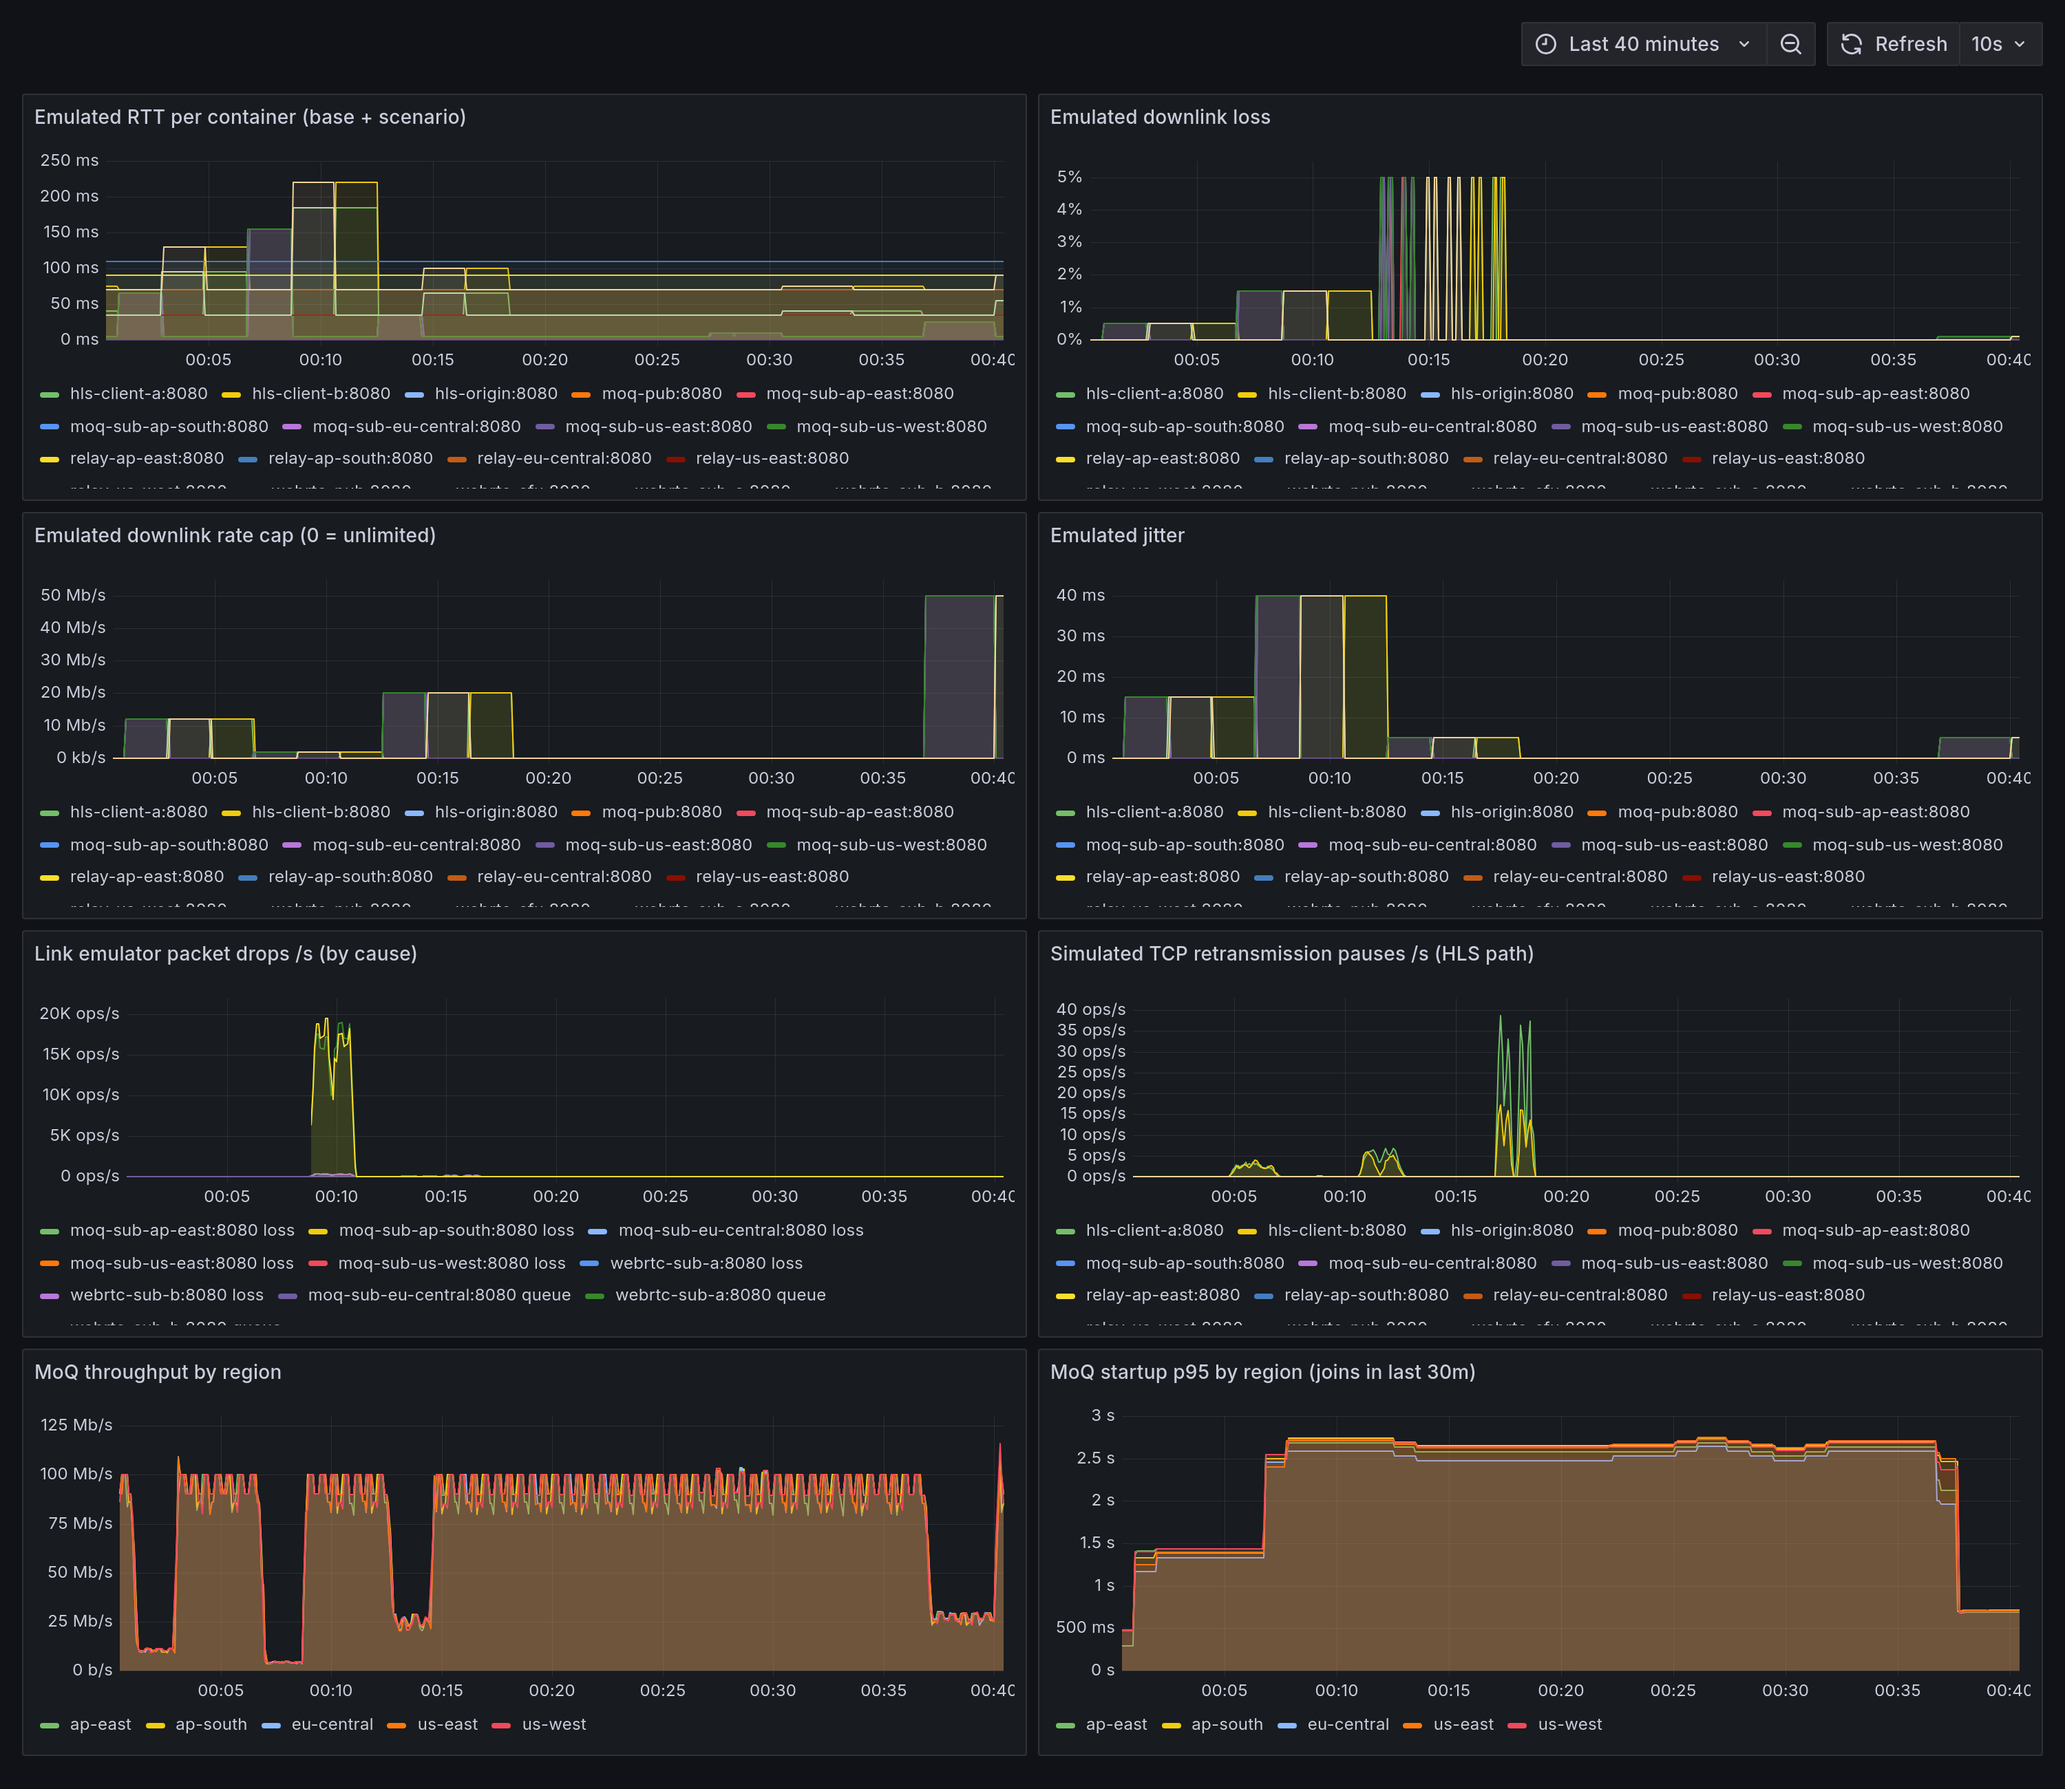
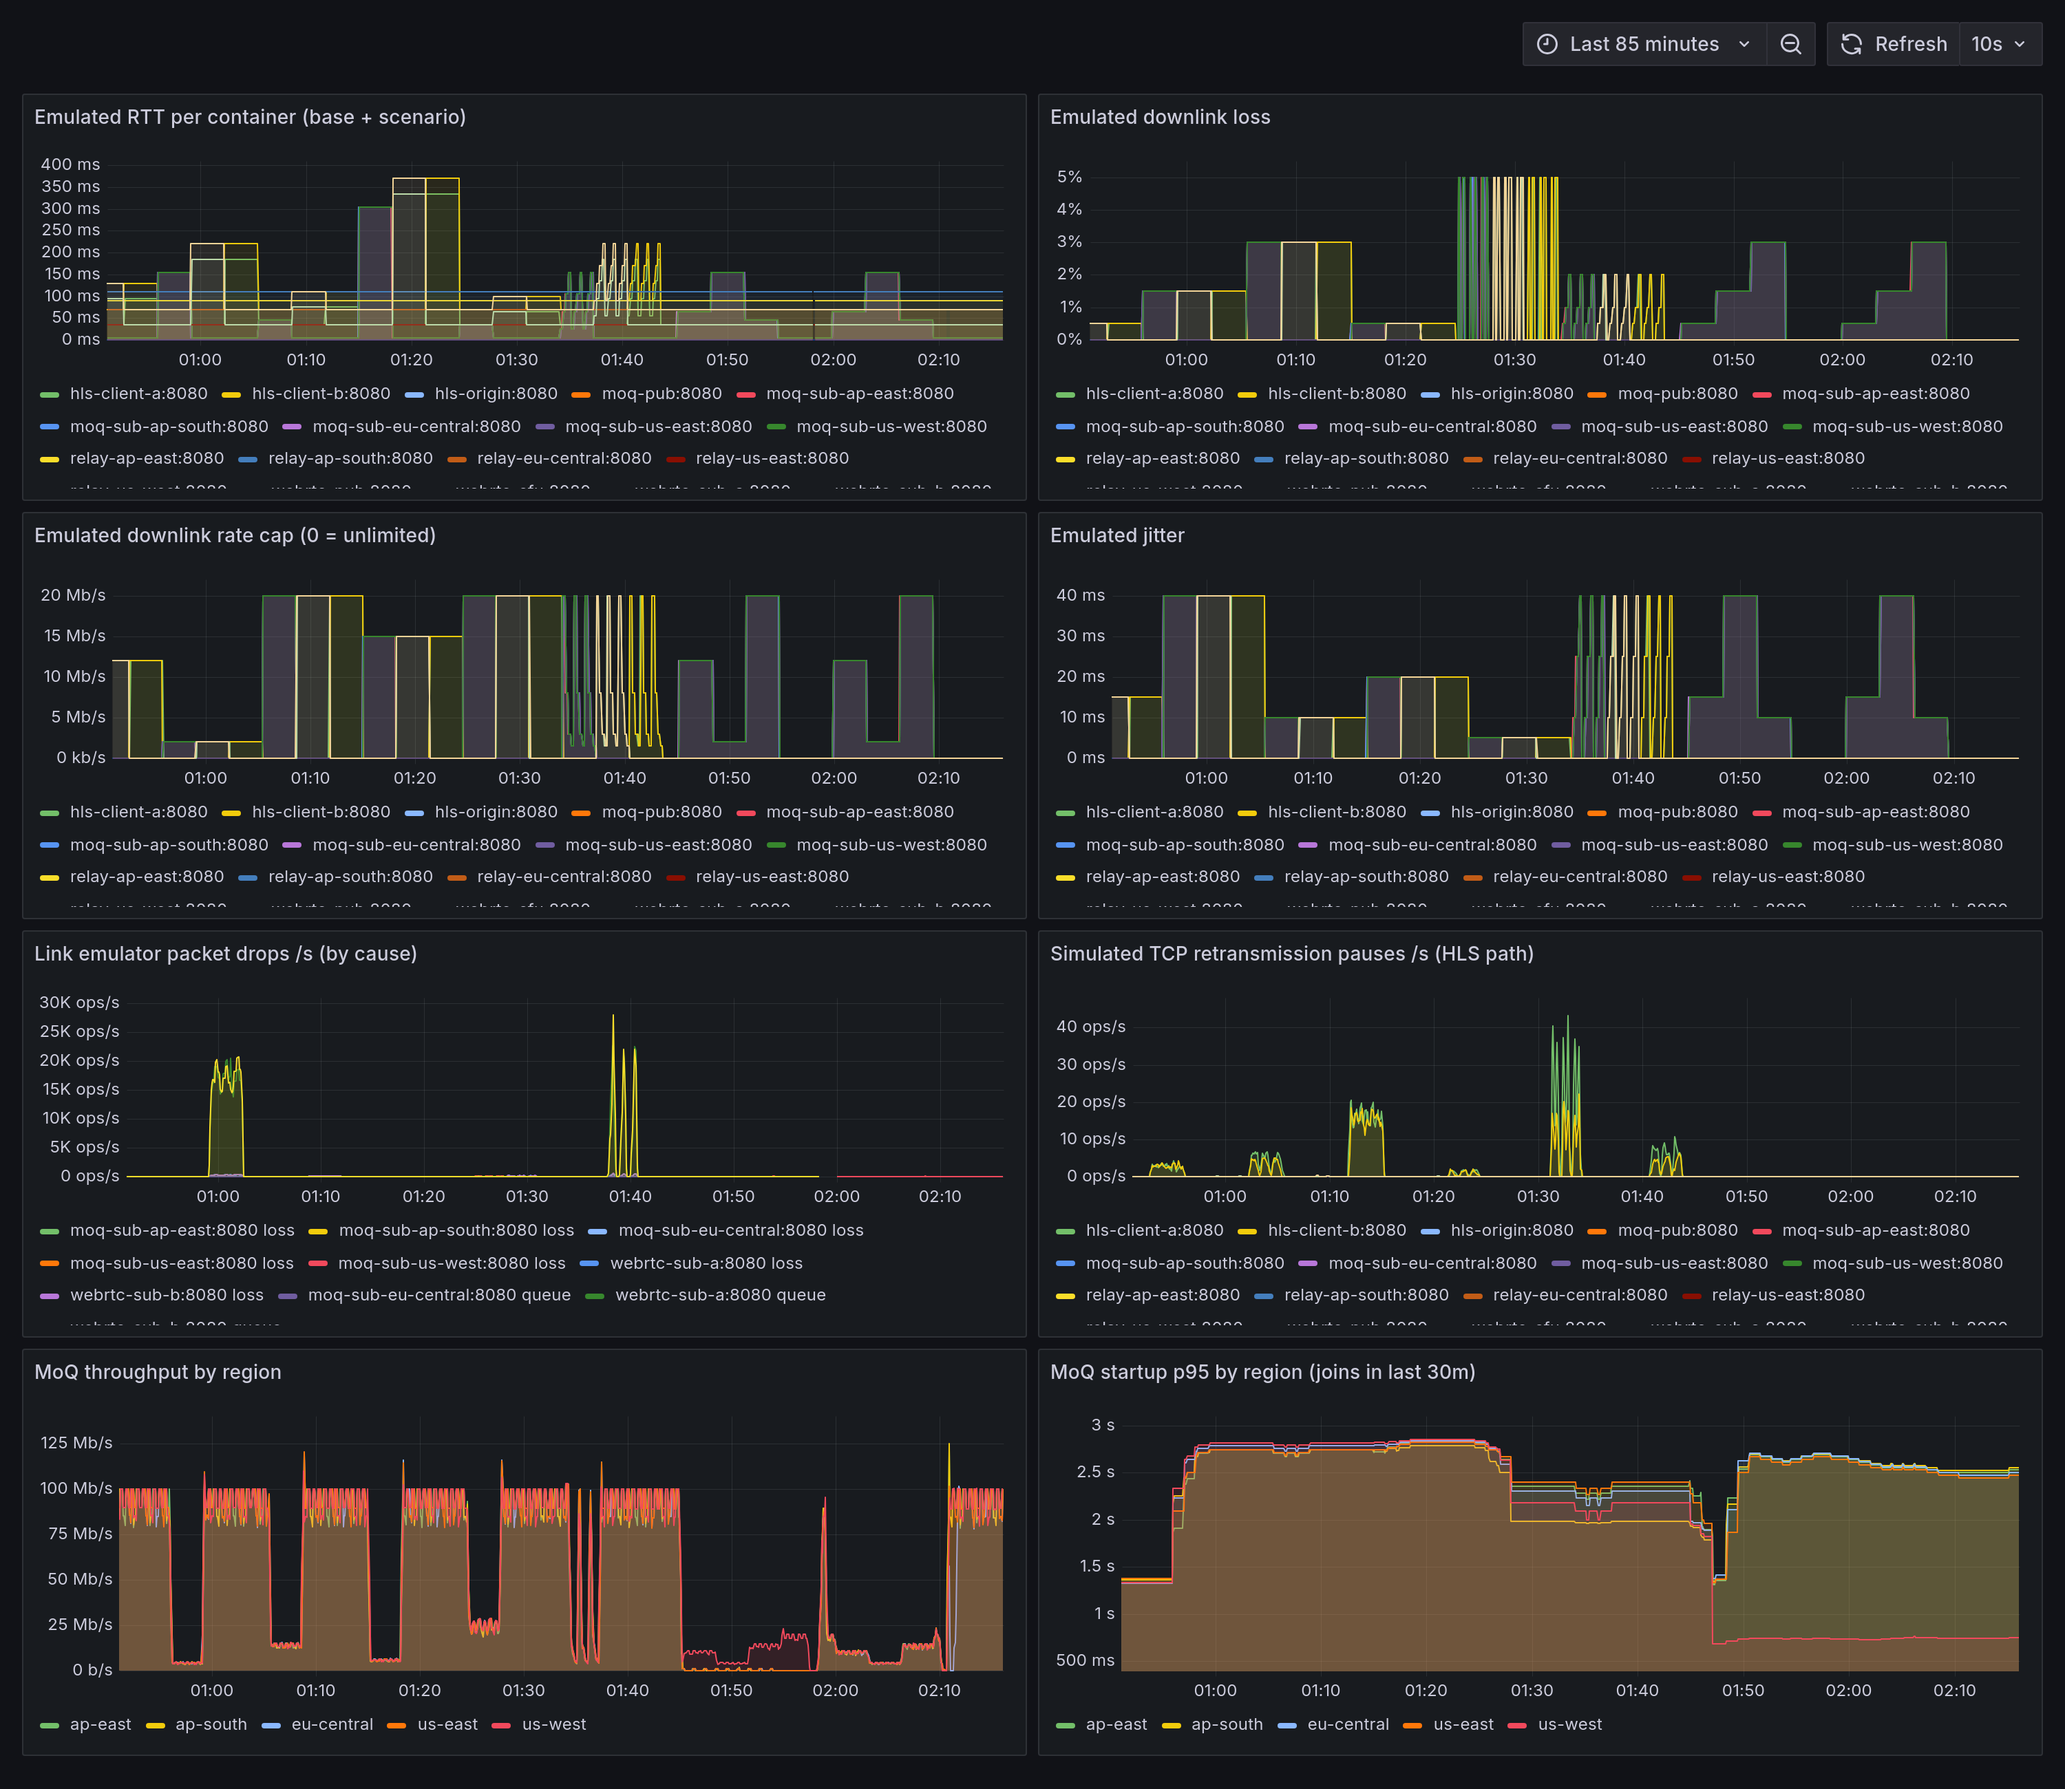
docs: disclose the publisher-bitrate gauge defect and log open issues
Adds the delivered-fraction figure, the A/B diagnosis figure, the relay-failure
figure, refreshed dashboard snapshots, and the fault-injection analysis fix
(sessions receiving nothing emit no per-second bucket, so averaging over
present buckets hid the outage entirely; absent seconds must count as zero).

Open issues now recorded: intermittent zero on edgecast_pub_bitrate_kbps,
unjittered reconnect backoff dominating failure recovery, and delivered
fraction being only a partial fix for the decodability blind spot.

diff --git a/docs/09-future-work.md b/docs/09-future-work.md
@@ -12,3 +12,9 @@ Roughly ordered by value per effort:
 8. **Multi-track scale runs.** Hundreds of tracks with Zipf-distributed popularity to measure relay cache behavior and memory.
 9. **CI.** A GitHub Actions job compiling the tree and running a 2-run micro-matrix in the runner to catch regressions in the measurement pipeline.
 10. **Priority experiments.** Implement object priorities (drop deltas before keyframes) and measure quality-of-experience under the same profiles.
+
+## Open issues
+
+- **`edgecast_pub_bitrate_kbps` intermittently reads zero.** The gauge read zero for the publisher instance across an entire 80-minute matrix while the publisher was demonstrably at its top tier, then reported correctly afterwards. Root cause unknown. Likely candidates: the admin server serving `/metrics` before the publisher goroutine performs its first `Set`, combined with package-level registration exporting the same metric name from every role. Fix direction: register role-owned collectors inside the role constructor and set an initial value before the admin server starts.
+- **Reconnect backoff is flat and unjittered.** The fault-injection experiment showed recovery taking longer than the outage itself, dominated by client backoff. Jittered exponential backoff plus a warm standby connection to a second relay would both shorten recovery and avoid synchronised reconnect storms.
+- **Delivered fraction is a coarse quality proxy.** It closes the measurement blind spot described in `docs/06-findings.md` section 6.2 only partially; frame-level decodability accounting would close it properly.

diff --git a/docs/05-results.md b/docs/05-results.md
@@ -64,6 +64,7 @@ The honest cross-protocol quality proxy in this data is **delivered fraction of 
 - **Rate-capped profiles also load the emulator.** When a profile sets a rate cap, every packet goes through token-bucket scheduling instead of the clean-link fast path, so the MoQ path's absolute goodput under capped profiles is partly limited by emulator CPU. This is why home-wifi, a 50 Mbit cap that should comfortably carry 5 Mbps, still shows reduced MoQ goodput.
 - **HLS goodput can exceed its playback bitrate** because clients download ahead to fill a ten-second buffer during the measure window.
 - **HLS loss response is modelled, not simulated.** See the TCP limitation in `docs/02-architecture.md`. Treat high-loss HLS figures as directional.
+- **Known instrumentation defect: `edgecast_pub_bitrate_kbps` is unreliable.** The gauge read zero for the publisher instance through the matrix window even though the publisher was demonstrably running its top tier. The publisher's rate during the control arm is therefore established from delivered goodput (4665 kbps per session at baseline, which is impossible below a ~5000 kbps source) rather than from the gauge. The gauge reports correctly at the time of writing, so the defect is intermittent and not yet root-caused; it is listed as an open issue. No conclusion in this report depends on it.
 
 ## 5.4 Recovery after transient loss
 
